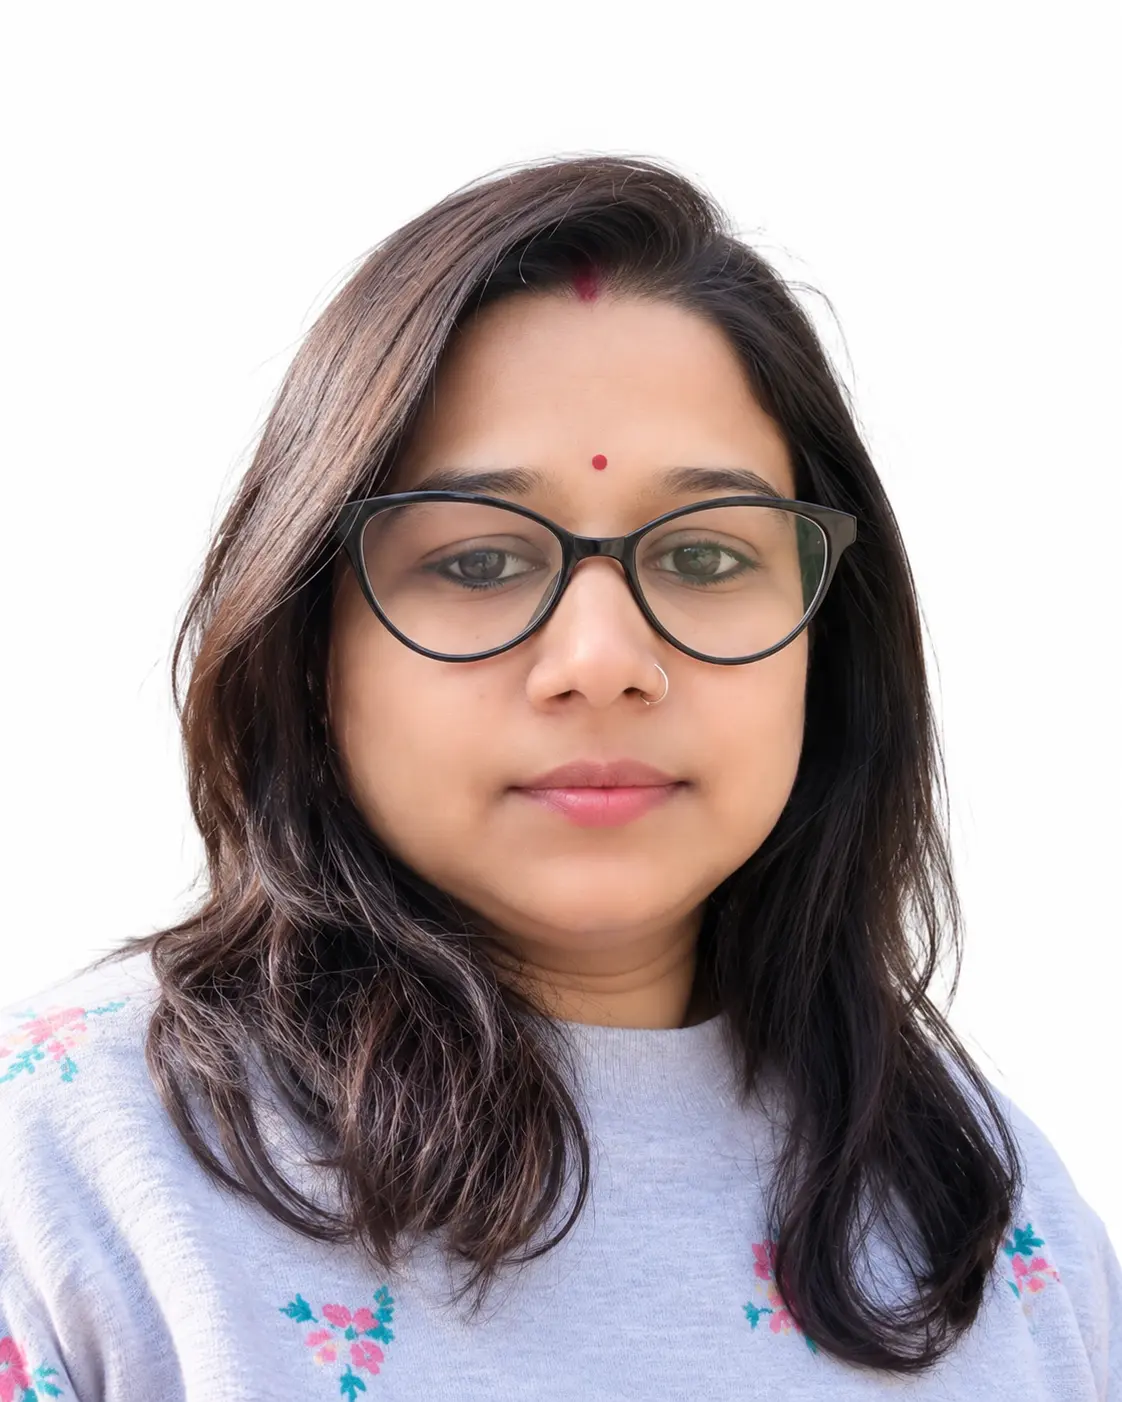
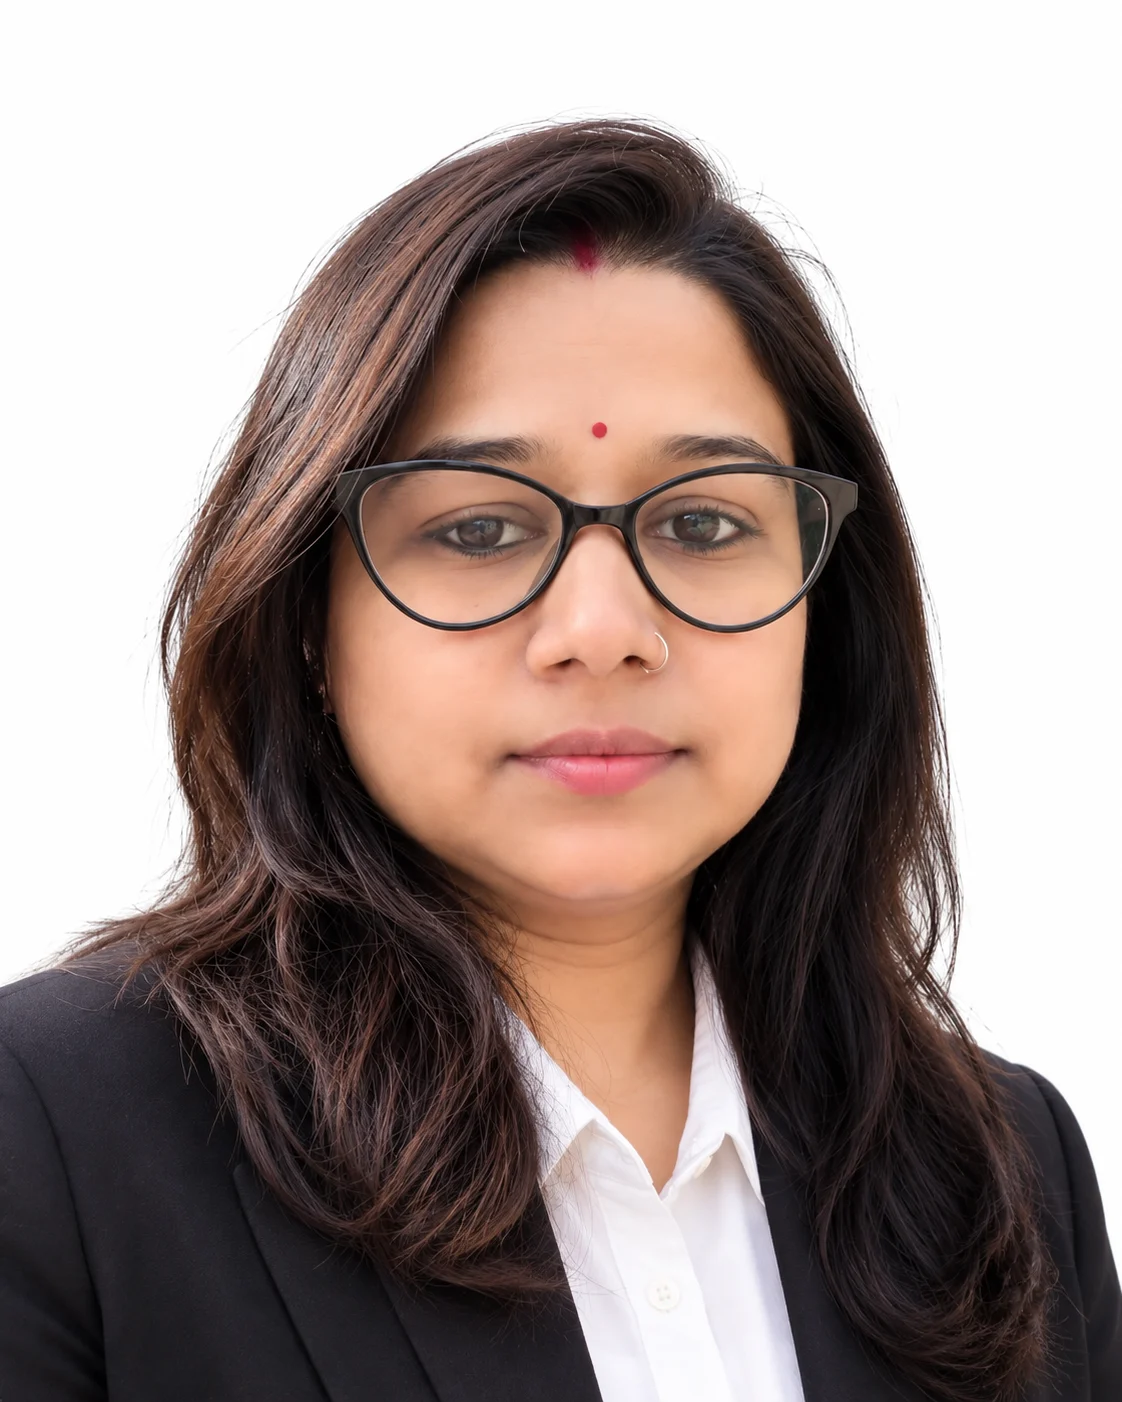
data added for 2 persons

diff --git a/team.html b/team.html
@@ -174,28 +174,49 @@
     </div>
     <div class="bio-block">
       <div class="bio-photo">
-        <div class="bio-photo-placeholder" aria-hidden="true">A</div>
+        <img src="assets/images/anshuImage.webp" alt="Anshu Upadhyay">
         <div class="role-badges">
-          <span class="role-badge">Details Coming Soon</span>
+          <span class="role-badge">ADVOCATE</span>
         </div>
       </div>
       <div>
-        <h3>Anshu</h3>
-        <span class="role">Bio and photo to be added</span>
-        <p>Full details for Anshu will be added shortly.</p>
+        <h3>Adv. Anshu Upadhyay</h3>
+        <span class="role">ADVOCATE</span>
+        <p>Anshu Kumar Upadhyay is an Associate at ADA Law Chambers and an Advocate enrolled with the Bar Council of Delhi. His practice encompasses Civil, Criminal, and Taxation litigation, commercial dispute resolution, and corporate advisory across courts and forums in Delhi NCR. He brings a methodical and strategic approach to complex legal matters, combining incisive legal research, sophisticated drafting, and persuasive courtroom advocacy. His practice is marked by a keen understanding of statutory frameworks, nuanced appreciation of contentious issues, and a solution-oriented approach to dispute resolution.</p>
+        <ul class="bio-highlights">
+          <li>Civil, criminal, and taxation litigation with a focus on complex and contentious matters before courts and judicial forums across Delhi NCR</li>
+          <li>Commercial disputes, strategic dispute resolution, and sophisticated litigation management</li>
+          <li>Corporate advisory, regulatory compliance, and legal risk assessment</li>
+          <li>Meticulous drafting of pleadings, petitions, replies, applications, written submissions, and other legal instruments</li>
+          <li>Rigorous legal research, nuanced case analysis, and comprehensive statutory interpretation</li>
+          <li>Persuasive courtroom advocacy, strategic case presentation, and effective litigation management</li>
+          <li>Analytical and pragmatic approach to intricate legal, commercial, and regulatory disputes</li>
+          <li>Strong legal acumen, refined drafting proficiency, strategic thinking, and client-centric legal representation</li>
+        </ul>
       </div>
     </div>
     <div class="bio-block">
       <div class="bio-photo">
-        <div class="bio-photo-placeholder" aria-hidden="true">D</div>
+        <img src="assets/images/dharamveerImage.webp" alt="Dharamveer Singh Chauhan">
         <div class="role-badges">
-          <span class="role-badge">Details Coming Soon</span>
+          <span class="role-badge">Accounts &amp; Tax professional</span>
         </div>
       </div>
       <div>
-        <h3>Dharamveer Sir</h3>
-        <span class="role">Bio and photo to be added</span>
-        <p>Full details for Dharamveer Sir will be added shortly.</p>
+        <h3>Dharamveer Singh Chauhan</h3>
+        <span class="role">Accounts &amp; Tax professional </span>
+        <p>Dharamveer Singh Chauhan is an experienced Accounts & Tax professional with over 19 years of experience in Finance, Accounting, GST and Tax Compliance.</p>
+        <ul class="bio-highlights">
+          <li>He is currently working as Senior Specialist – Tax Reporting & Compliance with DP World Global Service Center Pvt. Ltd</li>
+          <li>He has extensive experience in GST return filing, GST reconciliation, ITC reconciliation and GST annual return (GSTR-9/9C)</li>
+          <li>He specializes in TDS compliance, quarterly TDS returns, Form 16A and 26AS reconciliation</li>
+          <li>He has hands-on experience in revenue reconciliation, GL reconciliation, tax payments and financial reporting</li>
+          <li>He is experienced in coordinating Statutory Audit, Tax Audit, Internal Audit and Group Audit requirements</li>
+          <li>His earlier roles with DP World and Emirates Shipping Agencies have provided strong exposure to Accounts & Finance operations</li>
+          <li>He has expertise in bank reconciliation, vendor/customer reconciliation, fixed assets, MIS reporting and financial accounting</li>
+          <li>He is proficient in Oracle Fusion, IFS, Tally, MS Excel, MS Office, Busy and other tax/accounting software</li>
+          <li>With strong experience in tax reporting, compliance and financial operations, he brings a practical and process-oriented approach to corporate finance and taxation</li>
+        </ul>
       </div>
     </div>
   </div>

diff --git a/js/experts.js b/js/experts.js
@@ -13,6 +13,8 @@
     { name: "Adv. Ankita Jha", role: "LEGAL PRACTITIONER", img: "/assets/images/ankitaImage.webp" },
     { name: "Neelam ", role: "Advocate", img: "/assets/images/neelamImage.webp" },
     { name: "Ishu Bharti Jha", role: "MANAGER · ASSOCIATE", img: "/assets/images/ishuImage.webp" },
+    { name: "Anshu Kumar Upadhyay", role: "ADVOCATE", img: "/assets/images/anshuImage.webp" },
+    { name: "Dharamveer Singh Chauhan", role: "ACCOUNTS · Tax PROFESSIONAL", img: "/assets/images/dharamveerImage.webp" },
     { name: "CA (Dr.) Sunil Goel", role: "CONSULTANT · CONTRACTS, COMPLIANCE & INVESTIGATIONS", img: "/assets/images/sunilImage.webp" },
     { name: "Saurabh Sharma", role: "CONSULTANT · BANKING & FINANCIAL SERVICES", img: "/assets/images/saurabhImage.webp" },
     { name: "Anuj Dalmia", role: "CONSULTANT · START-UP & TRANSACTION ADVISORY", img: "/assets/images/anujImage.webp" },
